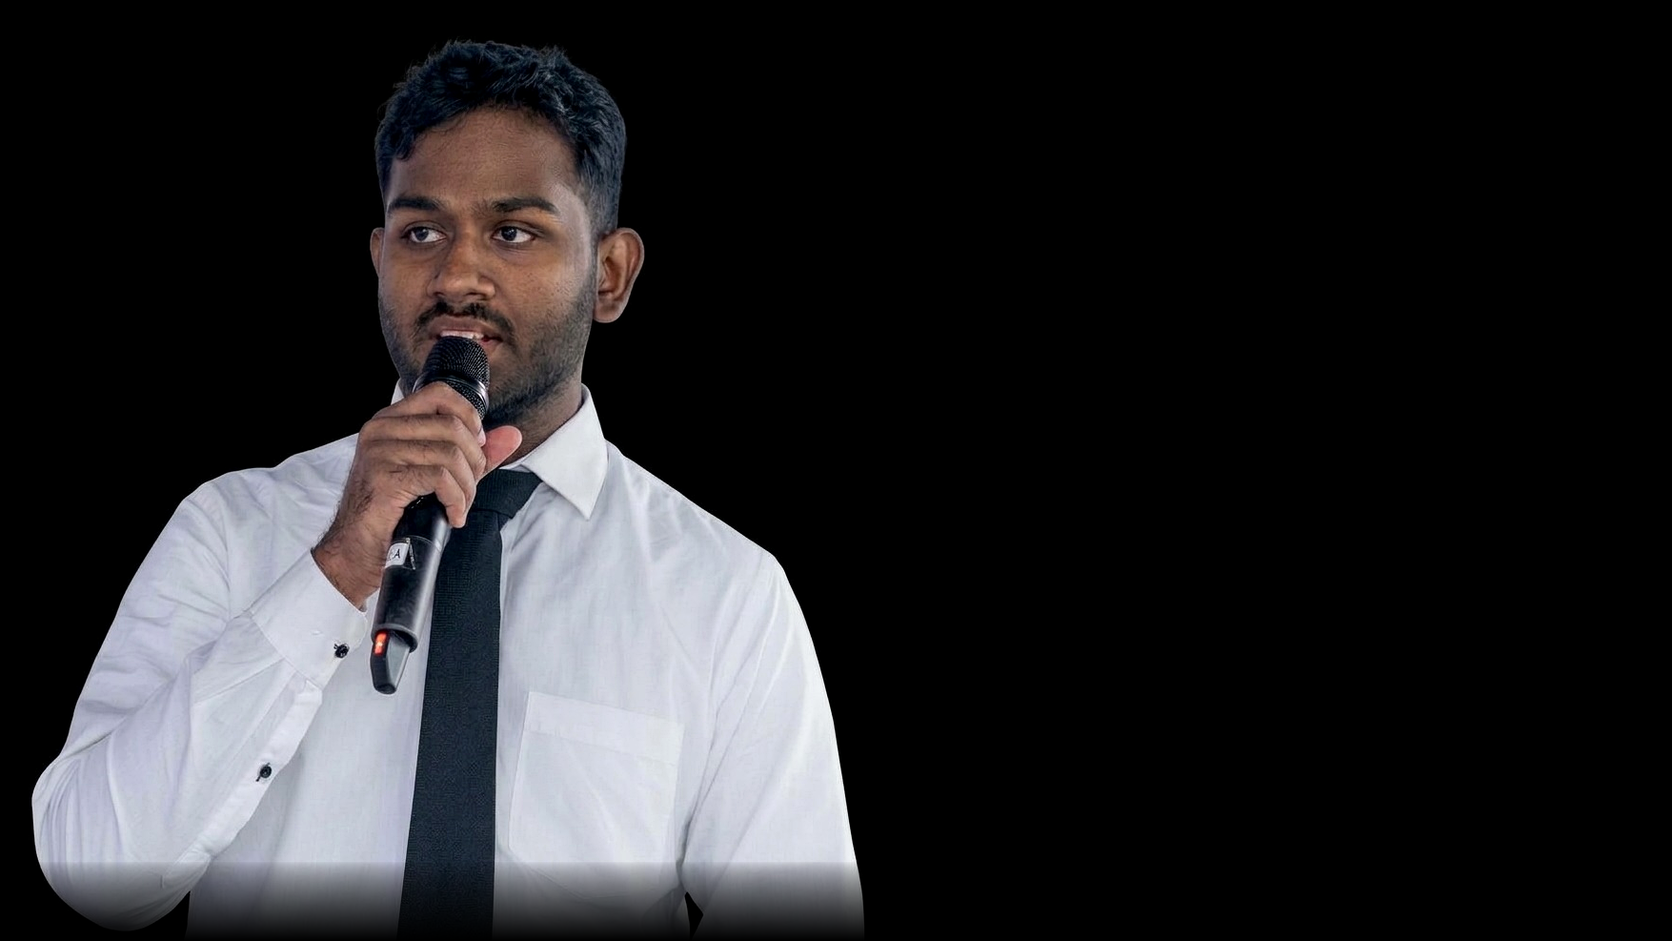
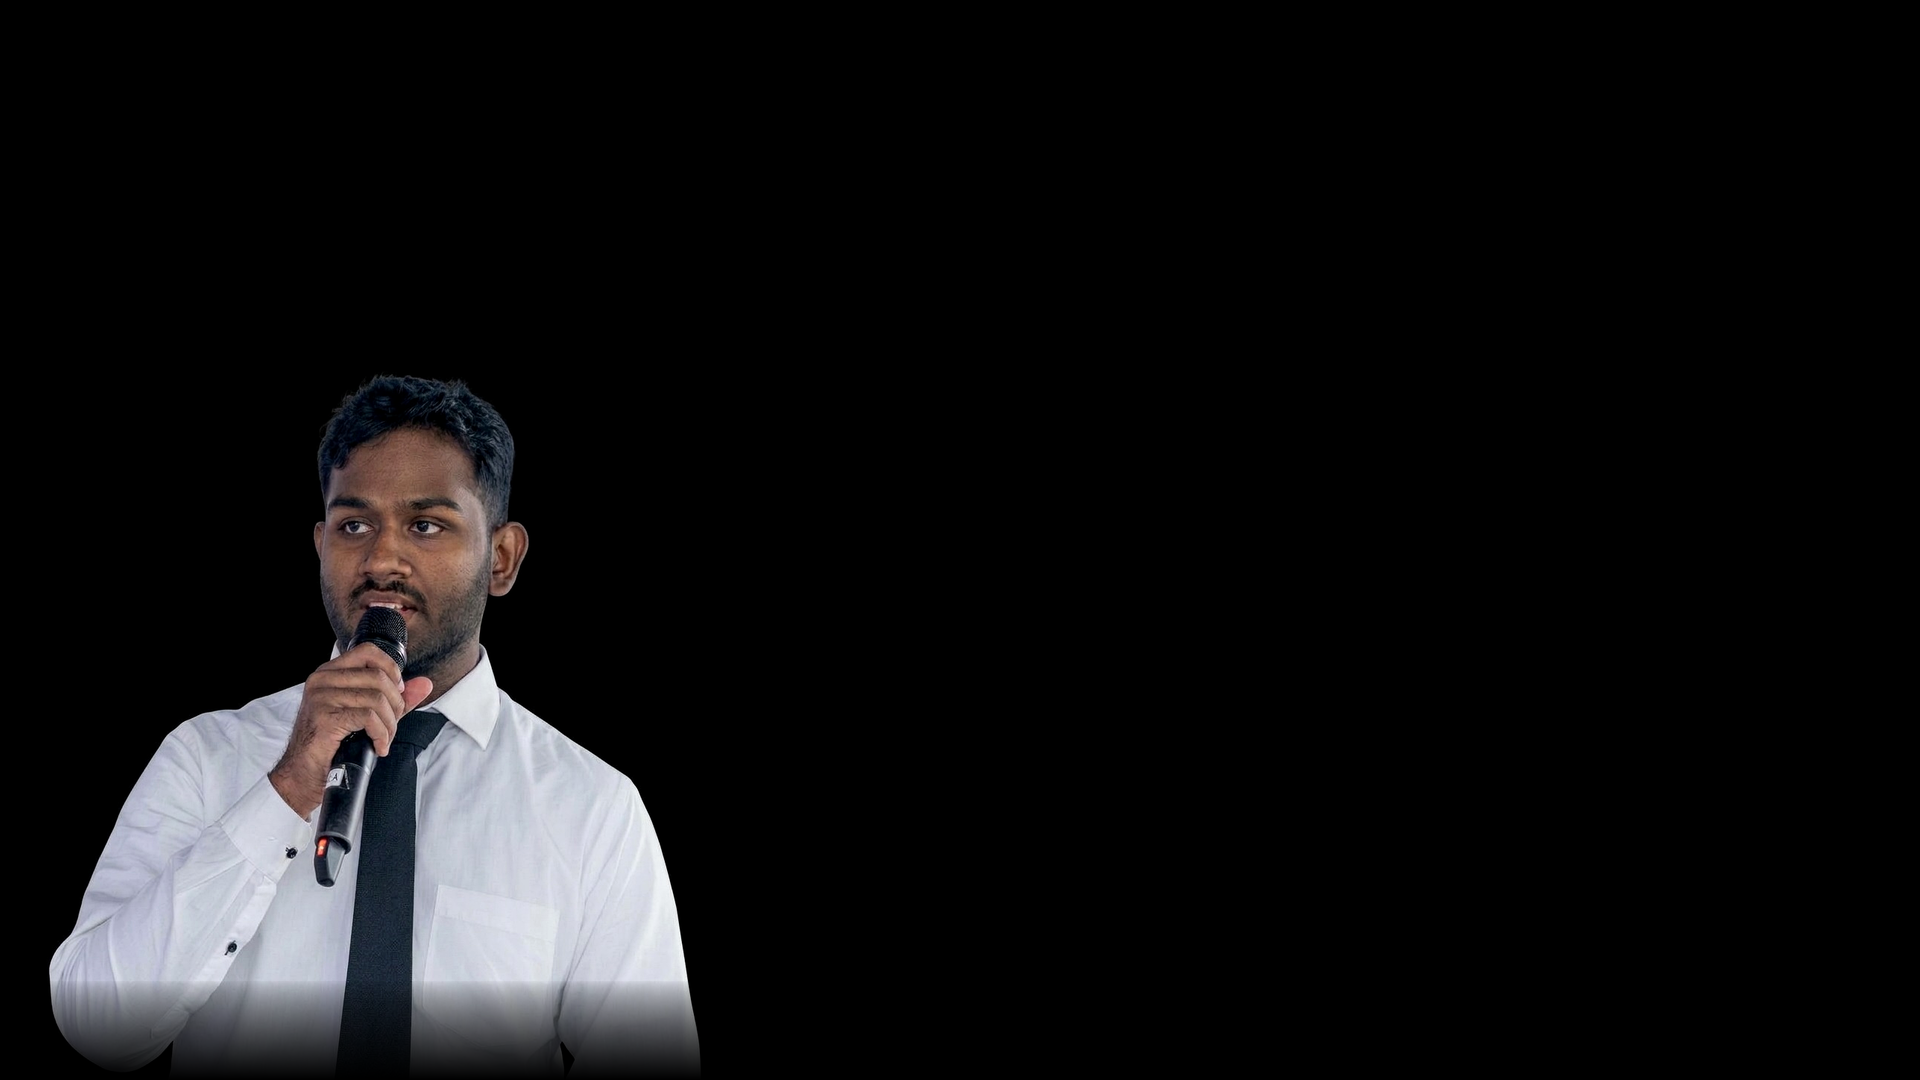
style: scale down hero portrait and position far left to ensure hero text visibility

Changed region(s): [[0.0, 0.0308, 0.5287, 0.9862]]

diff --git a/components/Hero.tsx b/components/Hero.tsx
@@ -31,7 +31,7 @@ export default function Hero() {
         {/* Desktop View: Full-bleed image across background, left-aligned, right side pure black */}
         <div className="hidden lg:block relative w-full h-full">
           <Image
-            src="/images/hero-portrait-v2.png"
+            src="/images/hero-portrait-v3.png"
             alt="Portrait of Venuja Silva"
             fill
             priority
@@ -43,11 +43,11 @@ export default function Hero() {
         {/* Mobile View: 16:9 aspect image showing Venuja clearly on top */}
         <div className="block lg:hidden relative w-full aspect-video">
           <Image
-            src="/images/hero-portrait-v2.png"
+            src="/images/hero-portrait-v3.png"
             alt="Portrait of Venuja Silva"
             fill
             priority
-            className="object-cover object-[24%_center]"
+            className="object-cover object-[20%_center]"
             sizes="(max-width: 1023px) 100vw, 0px"
           />
         </div>
@@ -55,7 +55,7 @@ export default function Hero() {
 
       {/* Hero Content Container */}
       <div className="relative z-10 mx-auto w-full max-w-7xl px-6 pt-10 pb-20 md:px-10 lg:py-32">
-        <div className="lg:ml-[48%] lg:pl-6 xl:ml-[46%] xl:pl-10">
+        <div className="lg:ml-[50%] lg:pl-6 xl:ml-[48%] xl:pl-10">
           {/* Eyebrow */}
           <div className="flex items-center gap-3">
             <span className="rule-accent" />
